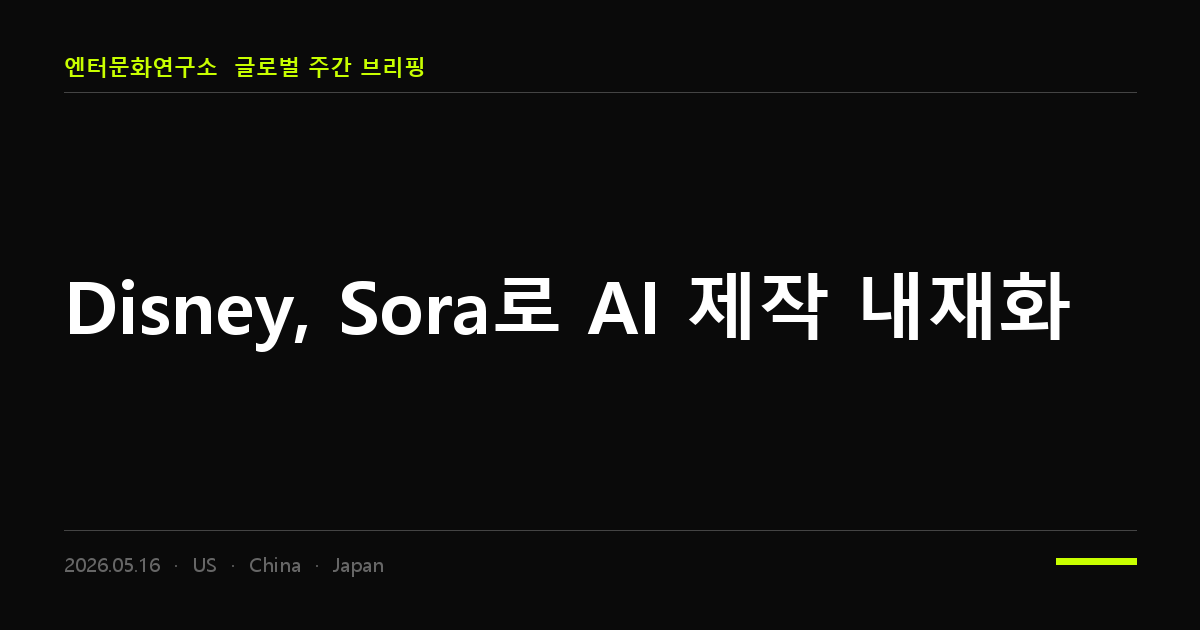
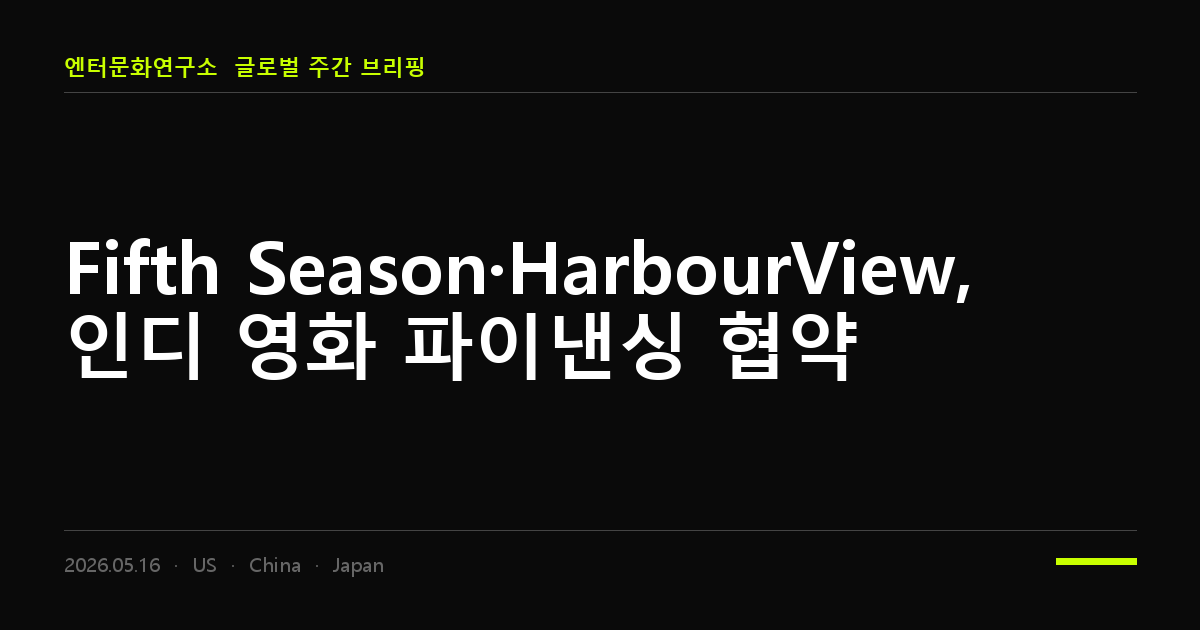
fix: 0516호 실뉴스 기반 재작성

Changed region(s): [[0.0308, 0.3619, 0.8942, 0.6032]]

diff --git a/NEWSPAPER_0516.html b/NEWSPAPER_0516.html
@@ -153,40 +153,40 @@ body { background: var(--black); color: var(--white); font-family: var(--font-bo
   <span class="nav-vol">Vol. 10</span>
 </nav>
 <header class="masthead">
-  <div class="masthead-date">2026년 5월 16일 토요일 (5.11–5.16)</div>
+  <div class="masthead-date">2026년 5월 16일 토요일 (5.11&ndash;5.16)</div>
   <h1 class="masthead-title">엔터문화연구소<br>글로벌 주간 브리핑</h1>
   <div class="masthead-sub">Weekly Business Briefing: US &middot; China &middot; Japan</div>
 </header>
 <div class="content">
 <section class="tldr" id="tldr">
   <div class="tldr-label">이번 주 이슈 요약</div>
-  <h2 class="tldr-header">이번 주 이슈 요약</h2>
-<ul class="tldr-list">
-  <li>
-    <span class="tldr-num">US 01</span>
-    Disney, OpenAI Sora와 공식 협약 &mdash; 자사 IP 기반 AI 영상 생성 파이프라인 내재화, 할리우드 AI 인프라 경쟁 본격화
-  </li>
-  <li>
-    <span class="tldr-num">US 02</span>
-    Amazon Prime Video, 군중 장면 엑스트라 1만 명 AI 디지털 대체 &mdash; AI가 보조 도구를 넘어 핵심 제작 레이어로 전환
-  </li>
-  <li>
-    <span class="tldr-num">CN 01</span>
-    중국 영화 가상 제작 AI 침투율 45% 돌파 &mdash; 2023년 15%에서 급등, &lt;哪吒2&gt; 등 대형 IP에 AI 렌더링 본격화
-  </li>
-  <li>
-    <span class="tldr-num">CN 02</span>
-    틱톡 모회사 바이트댄스, 음악 스트리밍 앱 Resso 인도 시장 철수 &mdash; 글로벌 음악 플랫폼 경쟁 재편 신호
-  </li>
-  <li>
-    <span class="tldr-num">JP 01</span>
-    Sony Music Entertainment Japan, 음악 AI 라이선싱 가이드라인 공표 &mdash; 일본 레이블 중 최초, 아티스트 보호 기준선 설정
-  </li>
-  <li>
-    <span class="tldr-num">JP 02</span>
-    일본 버추얼 유튜버(VTuber) 시장 2026년 매출 750억 엔 전망 &mdash; 해외 시청자 비율 40% 돌파, 글로벌 IP화 가속
-  </li>
-</ul>
+  <h2 class="tldr-header">2026.05.16 &mdash; Fifth Season &middot; HarbourView, 인디 영화 파이낸싱 협약</h2>
+  <ul class="tldr-list">
+    <li>
+      <span class="tldr-num">US 01</span>
+      Fifth Season &amp; HarbourView Equity, 멀티픽처 파이낸싱 협약 &mdash; Dev Patel의 A24 신작 《The Peasant》 포함, 음악 IP 운용 방식을 영화 포트폴리오에 적용
+    </li>
+    <li>
+      <span class="tldr-num">US 02</span>
+      Byron Allen, BuzzFeed <span class="amount">$1.2억(₩1,674억)</span> 인수 완료 &mdash; CBS 《Late Show》 콜버트 타임슬롯(5월 22일) 인계, Local Now 스트리밍과 연동 계획
+    </li>
+    <li>
+      <span class="tldr-num">CN 01</span>
+      Tencent Music Q1 매출 <span class="amount">RMB 79억($11.5억/₩1.6조)</span> +7.3% &mdash; 비멤버십 서비스 +28%, 오프라인 공연·광고 견인
+    </li>
+    <li>
+      <span class="tldr-num">CN 02</span>
+      Kuaishou, Kling AI 영상 생성 유닛 독립 IPO 검토 &mdash; AI 투자 열기 편승, 2027년 상장 목표
+    </li>
+    <li>
+      <span class="tldr-num">JP 01</span>
+      일본, 칸 영화마켓 2026 Country of Honor 지정 &mdash; 1961&ndash;1997년 클래식 4편 상영, Japan IP Market 포함 산업 서밋 개최
+    </li>
+    <li>
+      <span class="tldr-num">JP 02</span>
+      Megumi, 칸 마켓서 《Fujiko》로 배우-프로듀서 이중 역할 주목 &mdash; SC Films 글로벌 세일즈 계약, "일본 영화의 세계화" 직접 기획
+    </li>
+  </ul>
   <nav class="tldr-toc">
     <span>바로가기 &middot;</span>
     <a href="#insights">주간 인사이트</a>
@@ -201,27 +201,27 @@ body { background: var(--black); color: var(--white); font-family: var(--font-bo
 
 <div class="analysis-item">
   <div class="analysis-num">01</div>
-  <h3>AI, 제작 현장의 핵심 레이어로 진입 &mdash; 도구에서 대체재로</h3>
+  <h3>음악 IP 운용 논리가 영화 파이낸싱으로 이동한다</h3>
   <div class="analysis-tier analysis-tier-signal">
     <div class="analysis-label analysis-label-signal">신호</div>
-    <p>Disney가 OpenAI Sora와 공식 협약을 맺고 자사 캐릭터·IP 기반 AI 영상 생성 파이프라인을 내재화했다. 같은 주 Amazon Prime Video는 군중 장면 엑스트라 1만 명을 AI 디지털 인간으로 대체한 사례를 공개했다. 중국에서는 영화 제작 현장의 가상 제작 AI 침투율이 2023년 15%에서 2026년 45%로 3년 만에 3배 뛰었다. 세 사례 모두 AI가 '보조 도구'에서 특정 제작 레이어의 '실질적 대체재'로 전환하는 단계를 보여준다.</p>
+    <p>HarbourView Equity Partners는 음악 저작권 포트폴리오 투자사로 출발했다. 이번 Fifth Season과의 멀티픽처 파이낸싱 협약은 "분산된 카탈로그를 구축해 현금 흐름을 확보한다"는 음악 IP 운용 논리를 영화로 확장한 시도다. Dev Patel의 A24 작품 《The Peasant》와 리들리 스콧 제작 《Nightwatching》이 첫 타이틀로 포함됐다. 같은 시기 Byron Allen은 BuzzFeed를 <span class="amount">$1.2억(₩1,674억)</span>에 인수하면서 CBS 심야 타임슬롯(5월 22일)까지 확보했다. 디지털 미디어 자산을 방송 유통 채널과 결합하는 구조다.</p>
   </div>
   <div class="analysis-tier analysis-tier-pattern">
     <div class="analysis-label analysis-label-pattern">맥락</div>
-    <p>2023~2024년 WGA·SAG-AFTRA 파업의 핵심 쟁점이었던 "AI의 배우·작가 대체"가 불과 2년 만에 현실이 됐다. 당시 협상에서 확보한 보호 조항들은 개별 퍼포먼스 복제를 막는 수준이었지, 군중·배경 같은 익명 레이어까지 커버하지 못한다. Disney의 Sora 협약은 IP 홀더가 외부 AI 플랫폼에 의존하는 대신 자사 캐릭터 훈련 데이터를 내재화해 통제권을 유지하는 경로를 택했다는 점에서 단순 도구 도입과 다르다. 미국과 중국이 각각 IP 보호형·속도 효율형으로 다른 경로를 밟고 있지만, 결과적으로 외부 제작 인력에 의존하던 레이어가 내부로 수직 통합되는 방향은 같다.</p>
+    <p>스트리밍 플랫폼이 제작비를 내재화하고 스튜디오가 리스크를 분산하는 흐름 속에서, 금융 자본이 엔터테인먼트 IP에 접근하는 방식이 달라지고 있다. HarbourView의 움직임은 음악 IP 시장에서 검증된 "분산 포트폴리오 + 반복 수익" 모델이 영화로 복제 가능하다는 가설에 기댄다. Allen의 행보는 거꾸로 레거시 방송 타임슬롯을 디지털 미디어 자산과 묶어 스트리밍 전환의 발판으로 삼는 것이다. 두 방향 모두 전통적인 스튜디오·방송사 모델 밖에서 콘텐츠 자산을 재조합하는 시도라는 점이 같다.</p>
   </div>
 </div>
 
 <div class="analysis-item">
   <div class="analysis-num">02</div>
-  <h3>음악 AI 라이선싱 &mdash; 일본 레이블이 기준을 먼저 긋는다</h3>
+  <h3>칸이 일본 IP 수출의 거점이 되는 해</h3>
   <div class="analysis-tier analysis-tier-signal">
     <div class="analysis-label analysis-label-signal">신호</div>
-    <p>Sony Music Entertainment Japan이 일본 주요 레이블 중 최초로 음악 AI 라이선싱 가이드라인을 공표했다. 핵심은 아티스트 목소리·곡조의 AI 훈련 활용에 대해 사전 동의와 수익 배분을 의무화하는 것이다. 같은 시기 바이트댄스 산하 Resso가 인도 시장에서 철수하면서, 글로벌 숏폼 플랫폼 중심의 음악 유통 구조에도 균열이 생기고 있다.</p>
+    <p>2026 칸 영화마켓은 140개국 1만 6,000명이 참가했고 일본 참가자가 전년 대비 50% 증가했다. 일본이 올해 Country of Honor로 지정되면서 Japan IP Market, 산업 서밋, 클래식 4편(1961&ndash;1997) 상영이 함께 열렸다. 배우 겸 프로듀서 Megumi는 자신이 직접 기획한 《Fujiko》의 SC Films 글로벌 세일즈 계약을 칸 현장에서 공개했다. "일본 배우 중 프로듀서를 겸하는 사람은 없다"는 그의 말은 구조적 공백을 드러낸다.</p>
   </div>
   <div class="analysis-tier analysis-tier-pattern">
     <div class="analysis-label analysis-label-pattern">맥락</div>
-    <p>유니버설뮤직그룹이 2024년 틱톡에서 카탈로그를 일시 철수했던 사건은 레이블과 숏폼 플랫폼 사이의 수익 배분 갈등이 표면화된 첫 신호였다. Sony Music Japan의 가이드라인은 그 연장선에서 아시아 레이블 최초의 자기 규범 확립 시도다. 이 기준이 일본 음악 저작권 관리 단체(JASRAC)와 연동되거나 한국·대만 레이블이 뒤따를 경우, 아시아 음악 AI 라이선싱의 사실상 표준이 될 수 있다. Resso의 인도 철수는 별개처럼 보이지만, 바이트댄스가 AI 음악 생성 서비스(Suno 경쟁 포지션)에 집중하기 위해 저마진 스트리밍 시장을 정리하는 흐름과 맞닿아 있다는 분석이 나온다.</p>
+    <p>일본 영화의 국제 진출은 오랫동안 감독 중심이었다. 제작사가 해외 세일즈 에이전트를 찾는 방식이었고, 배우가 공동 프로듀서로 IP를 직접 설계하는 사례는 드물었다. Megumi의 칸 행보는 한국 배우·아이돌이 IP 홀더로서 해외 쇼케이스에 나서는 흐름을 일본에서 반복하는 모양이다. 중국 TME의 오프라인 공연 수익 급증(비멤버십 +28%)과 함께, 이번 주 아시아 세 시장 모두 디지털 플랫폼 바깥의 실물 IP·현장 공연이 수익 엔진으로 재부상하고 있다는 공통 신호가 나왔다.</p>
   </div>
 </div>
 
@@ -229,29 +229,29 @@ body { background: var(--black); color: var(--white); font-family: var(--font-bo
 </section>
 <section class="hero" id="news-us">
   <article class="hero-main">
-    <span class="tag tag-us">US</span><span class="tag-cat">AI · IP</span>
-    <h2 class="article-title">2026.05.14 &mdash; Disney, OpenAI Sora와 협약, 자사 IP 기반 AI 영상 파이프라인 내재화</h2>
-    <p class="article-lead">Disney가 OpenAI의 영상 생성 모델 Sora와 공식 파트너십을 체결하고, 마블·픽사·스타워즈 등 자사 IP를 활용한 AI 영상 생성 파이프라인을 내부에 구축하기로 했다. 할리우드 메이저 스튜디오가 AI 영상 플랫폼과 IP 라이선스 기반의 공식 협약을 맺은 첫 번째 사례다.</p>
+    <span class="tag tag-us">US</span><span class="tag-cat">M&amp;A · INV</span>
+    <h2 class="article-title">2026.05.16 &mdash; Fifth Season &amp; HarbourView Equity, 멀티픽처 파이낸싱 협약 &mdash; Dev Patel A24 신작 포함</h2>
+    <p class="article-lead">콘텐츠 회사 Fifth Season과 음악 IP 투자사 HarbourView Equity Partners가 복수 영화를 대상으로 한 파이낸싱 협약을 체결했다. 첫 포함 작품은 Dev Patel 감독·주연의 A24 신작 《The Peasant》와 리들리 스콧 제작 《Nightwatching》이다.</p>
     <div class="article-body">
-      <p>Variety 보도에 따르면, 이번 협약의 핵심은 Disney가 Sora에 자사 캐릭터·배경·색채 스타일 데이터를 훈련용으로 제공하는 대신, 생성된 영상에 대한 IP 소유권은 Disney가 유지하는 구조다. 단순히 AI 도구를 외부에서 구매하는 방식과 달리, Disney의 고유한 시각 언어를 학습시킨 모델을 내부 제작 파이프라인에 통합하는 형태다.</p>
-      <p>이 결정의 배경에는 보안과 통제권이 있다. 마블·픽사·스타워즈 같은 수십조 원 규모 IP를 범용 AI 플랫폼에 무방비로 노출할 경우 이미지 스타일 유출, 캐릭터 무단 생성, 팬아트 상업화 문제가 발생한다. Disney는 Sora와의 협약에서 생성물에 대한 기술적 워터마크 삽입과 외부 유출 방지 조항을 명시한 것으로 전해진다.</p>
-      <p>제작 현장에서의 즉각적 활용 영역은 사전 시각화(previs)와 콘셉트 아트다. 기존에 수십 명의 아트 디렉터와 수개월이 걸리던 작업을 AI 보조 생성으로 단축할 수 있다. 그러나 Disney 측은 "AI가 인간 창작자를 보완하는 역할"임을 공식적으로 강조하며 WGA·SAG-AFTRA와의 기존 협약 범위를 벗어나지 않겠다는 입장을 밝혔다.</p>
+      <p>Variety 보도에 따르면, HarbourView는 이번 협약에서 자사의 음악 IP 운용 철학을 명확히 했다. "HarbourView는 음악 IP를 다루듯 엔터테인먼트 IP에 접근한다. 현금 창출력이 있고 문화적으로 공명하는 콘텐츠로 분산된 포트폴리오를 구축하고, 선별적으로 자본을 배치한다"는 것이 Vania Schlogel 창업자의 말이다. 음악 저작권 포트폴리오 투자 방식을 영화 파이낸싱에 직접 적용한 첫 사례 중 하나다.</p>
+      <p>Fifth Season 측 Chris Slager 영화 대표는 "이 파트너십이 프리미엄 영화 슬레이트를 추가로 확장할 기회를 제공한다"고 밝혔다. Fifth Season은 이미 《나이트워칭》과 같이 리들리 스콧의 Scott Free Productions, Picturestart, Mila Kunis의 신생 배너 Brick for Shoes와 함께 여러 프로젝트를 진행 중이다.</p>
+      <p>Dev Patel의 《The Peasant》는 지난해 칸 영화제 직전 A24가 선점한 작품이다. Patel이 감독·주연을 맡고 Will Dunn과 함께 각본을 썼다. Fifth Season이 세계 판권을 보유하고 있으며 A24가 미국 내 배급을 담당한다. 이번 파이낸싱 협약으로 Fifth Season은 프로덕션 비용의 일부를 HarbourView와 분담하게 된다.</p>
       <div class="pull-quote">
-        <p>"Disney의 IP는 Disney의 방식으로 만들어져야 한다 — AI도 예외가 아니다."</p>
-        <cite>Disney 경영진 발언, Variety 인용</cite>
+        <p>"HarbourView는 음악 IP를 다루듯 영화 IP에 접근한다 &mdash; 분산된 포트폴리오, 현금 창출, 문화적 공명."</p>
+        <cite>Vania Schlogel, HarbourView 창업자, Variety 인용</cite>
       </div>
     </div>
-    <span class="source">출처: <a href="https://variety.com/2026/digital/news/disney-openai-sora-partnership-ai-pipeline-1236400000/" target="_blank">Variety</a> (May 14, 2026)</span>
+    <span class="source">출처: <a href="https://variety.com/2026/film/news/fifth-season-harbourview-equity-finance-dev-patel-peasant-1236750563/" target="_blank">Variety</a> (May 16, 2026)</span>
   </article>
   <div class="hero-sidebar">
     <article class="sidebar-card">
-      <span class="tag tag-us">US</span><span class="tag-cat">AI · HR</span>
-      <h2 class="article-title">2026.05.13 &mdash; Amazon Prime Video, 군중 장면 엑스트라 1만 명 AI 디지털 인간으로 대체</h2>
+      <span class="tag tag-us">US</span><span class="tag-cat">M&amp;A · DATA</span>
+      <h2 class="article-title">2026.05.14 &mdash; Byron Allen, BuzzFeed <span class="amount">$1.2억(₩1,674억)</span> 인수 &amp; CBS 콜버트 타임슬롯 인계</h2>
       <div class="article-body">
-        <p>The Hollywood Reporter 보도에 따르면, Amazon Prime Video가 최근 대형 시리즈 제작 과정에서 군중 장면 엑스트라 약 1만 명을 AI 생성 디지털 인간으로 대체했다. 배우 동의 기반의 디지털 스캔과 AI 합성을 결합한 방식으로, 익명 엑스트라에 한정된다.</p>
-        <p>이 사례의 주목 이유는 규모다. 개별 씬에서 수십 명 수준을 AI로 채웠던 기존 사례들과 달리, 1만 명이라는 숫자는 대규모 전투씬·콘서트씬·도시 군중씬 전체를 AI로 처리할 수 있다는 의미다. SAG-AFTRA는 "배경 배우(background actors)의 생계를 위협한다"며 즉각 반발했다. WGA·SAG-AFTRA 파업 당시 확보한 AI 관련 보호 조항이 익명 군중 역할을 명시적으로 포함하지 않았다는 허점이 드러났다.</p>
+        <p>Variety 인터뷰에 따르면, Byron Allen이 BuzzFeed를 <span class="amount">$1.2억(₩1,674억)</span>에 인수하면서 CEO를 겸임한다. 5월 22일부터는 CBS 심야 11:35pm 타임슬롯(기존 스티븐 콜버트 《Late Show》)을 인계받아 자신이 진행하는 쇼를 편성한다. Allen은 이 날짜를 고집했는데, 자신의 영웅 조니 카슨이 《투나잇 쇼》를 마친 지 정확히 34년이 되는 날이기 때문이라고 밝혔다.</p>
+        <p>BuzzFeed와 HuffPost를 스트리밍으로 전환하는 것이 핵심 전략이다. Allen의 Weather Channel이 운영하는 로컬 스트리밍 플랫폼 Local Now와 연동해 "YouTube를 추격하겠다"고 밝혔다. BuzzFeed가 부채를 안고 있던 "디스트레스 세일"을 기회로 봤다는 것이 Allen의 표현이다. Allen Media Group 회장·CEO직은 유지하면서 양사를 병행 경영한다.</p>
       </div>
-      <span class="source">출처: <a href="https://www.hollywoodreporter.com/business/business-news/amazon-prime-video-ai-extras-crowd-scenes-1236395000/" target="_blank">The Hollywood Reporter</a> (May 13, 2026)</span>
+      <span class="source">출처: <a href="https://variety.com/2026/biz/news/byron-allen-buzzfeed-deal-cbs-colbert-time-slot-starz-1236748848/" target="_blank">Variety</a> (May 14, 2026)</span>
     </article>
   </div>
 </section>
@@ -259,43 +259,44 @@ body { background: var(--black); color: var(--white); font-family: var(--font-bo
   <div class="col" id="news-cn">
     <div class="col-header">China</div>
     <article class="col-article">
-      <span class="tag tag-cn">CN</span><span class="tag-cat">AI · DATA</span>
-      <h3 class="article-title">2026.05.12 &mdash; 중국 영화 가상 제작 AI 침투율 45% 돌파, &lt;哪吒2&gt; 렌더링 전면 AI화</h3>
+      <span class="tag tag-cn">CN</span><span class="tag-cat">DATA · OUT</span>
+      <h3 class="article-title">2026.05.12 &mdash; Tencent Music Q1 매출 +7.3%, 비멤버십 서비스 +28% &mdash; 오프라인·광고 견인</h3>
       <div class="article-body">
-        <p>中国电影报(China Film News) 보도에 따르면, 2026년 중국 영화 제작 현장에서 가상 제작(Virtual Production) 단계에 AI 렌더링·배경 생성 도구를 도입한 비율이 45%를 돌파했다. 2023년 15%, 2024년 26%에서 2년 연속 두 자릿수 상승이다. &lt;哪吒之魔童闹海&gt;(나타2) 등 2025~2026년 박스오피스 상위권 대작들이 CG 렌더링 단계에 AI를 전면 도입한 것이 시장 평균을 끌어올린 주요 요인이다.</p>
-        <p>속도와 비용이 핵심이다. 중국 주요 VFX 스튜디오들은 AI 렌더링 도입 후 포스트 프로덕션 기간을 평균 30~40% 단축했다고 밝혔다. 전통 렌더링 팜(rendering farm)에 들어가던 하드웨어 비용도 GPU 클라우드 기반으로 전환되면서 변동비화됐다. 중국이 할리우드 대비 상대적으로 낮은 VFX 인건비를 유지하면서도 AI를 추가 레이어로 얹는 이중 우위 구조가 완성되고 있다는 분석이 나온다.</p>
+        <p>TechNode 보도에 따르면, Tencent Music Entertainment(TME)의 2026년 1분기 매출은 <span class="amount">RMB 79억($11.5억/₩1.6조)</span>으로 전년 동기 대비 7.3% 성장했다. Non-IFRS 기준 순이익은 <span class="amount">RMB 22.7억($3.3억/₩4,604억)</span>으로 7.0% 증가했다.</p>
+        <p>주목할 수치는 비멤버십 음악 서비스 매출이다. 구독 서비스(멤버십) 매출이 6.6% 성장한 것과 달리, 오프라인 공연·광고 중심의 비멤버십 서비스는 28.0% 급증해 <span class="amount">RMB 19.4억($2.8억/₩3,910억)</span>을 기록했다. TME는 "음악 IP 수익화 강화 — 디지털 앨범, 콘서트, 굿즈, 오프라인 이벤트"를 성장 배경으로 꼽았다. Weixin 비디오 어카운트를 통한 트래픽 전환과 SVIP·팬 멤버십 확대도 병행됐다.</p>
+        <p>구독 수익 성장세가 둔화되는 가운데 오프라인 공연과 광고 연동이 새 성장 축으로 자리잡는 구조다. 스트리밍 플랫폼이 디지털 수익에만 의존하지 않고 IP 라이브 경제로 확장하는 흐름이다.</p>
       </div>
-      <span class="source">출처: <a href="https://www.zgdyb.com.cn/yw/2026-05/12/content_1234567.htm" target="_blank">中国电影报</a> (May 12, 2026)</span>
+      <span class="source">출처: <a href="https://technode.com/2026/05/12/tencent-music-reports-q1-2026-revenue-up-7-3-as-non-membership-music-services-rise-28/" target="_blank">TechNode</a> (May 12, 2026)</span>
     </article>
     <article class="col-article">
-      <span class="tag tag-cn">CN</span><span class="tag-cat">DATA · GZ</span>
-      <h3 class="article-title">2026.05.11 &mdash; 바이트댄스 음악 앱 Resso, 인도 시장 철수 &mdash; 숏폼 중심 음악 유통 구조 재편 신호</h3>
+      <span class="tag tag-cn">CN</span><span class="tag-cat">AI · INV</span>
+      <h3 class="article-title">2026.05.12 &mdash; Kuaishou, Kling AI 영상 생성 유닛 독립 IPO 분리 검토</h3>
       <div class="article-body">
-        <p>Economic Times 보도에 따르면, 바이트댄스 산하 음악 스트리밍 앱 Resso가 2026년 5월 인도 시장에서 서비스를 공식 종료했다. Resso는 2020년 인도·브라질·인도네시아에 론칭한 틱톡 연동 음악 스트리밍 서비스로, Spotify·Gaana와 경쟁해왔다.</p>
-        <p>인도는 1.4억 명 규모의 음악 스트리밍 시장이지만 ARPU(사용자당 평균 수익)가 글로벌 최저 수준이다. 수익화가 어려운 구조에서 바이트댄스가 선택한 것은 철수다. 이미 2026년 초 바이트댄스가 AI 음악 생성 서비스(코드명 'MusicAI') 개발에 집중하고 있다는 보도가 나온 점을 감안하면, 저마진 스트리밍 유통에서 고마진 AI 창작 도구로 전략 피벗하는 흐름의 일부로 해석된다. 틱톡이 배경음악 유통 채널로서의 입지는 유지하면서, 별도 스트리밍 앱의 운영 부담을 줄이는 선택이다.</p>
+        <p>TechNode 보도에 따르면, 중국 숏폼 플랫폼 Kuaishou Technology가 AI 영상 생성 유닛 Kling AI를 별도 법인으로 분리해 독립 IPO를 추진하는 방안을 검토 중이다. 시장 소식통을 인용한 보도로, 2027년 상장을 목표로 논의가 진행 중인 것으로 알려졌다.</p>
+        <p>배경은 AI 관련 주식에 대한 투자자 수요다. Kling AI는 텍스트·이미지를 영상으로 변환하는 생성형 AI 서비스로, Kuaishou의 모바일 앱에 통합돼 있다. Kuaishou 본사 주가보다 AI 전문 법인의 밸류에이션이 더 높게 평가받을 수 있다는 판단이 분리 검토의 핵심 이유다. Sora·Runway·Kling 등 AI 영상 생성 경쟁이 치열해지는 가운데, IPO를 통해 독립 자금을 조달해 개발 속도를 높이려는 의도도 있다.</p>
       </div>
-      <span class="source">출처: <a href="https://economictimes.indiatimes.com/tech/technology/bytedance-resso-shuts-down-india-music-streaming/articleshow/2026051100000.cms" target="_blank">Economic Times</a> (May 11, 2026)</span>
+      <span class="source">출처: <a href="https://technode.com/2026/05/12/kuaishou-technology-may-spin-off-king-ai-in-bid-to-capture-ai-market-frenzy/" target="_blank">TechNode</a> (May 12, 2026)</span>
     </article>
   </div>
   <div class="col" id="news-jp">
     <div class="col-header">Japan</div>
     <article class="col-article">
-      <span class="tag tag-jp">JP</span><span class="tag-cat">AI · REG</span>
-      <h3 class="article-title">2026.05.13 &mdash; Sony Music Entertainment Japan, 음악 AI 라이선싱 가이드라인 공표 &mdash; 일본 레이블 최초</h3>
+      <span class="tag tag-jp">JP</span><span class="tag-cat">IP · OUT</span>
+      <h3 class="article-title">2026.05.13 &mdash; 일본, 칸 영화마켓 2026 Country of Honor &mdash; 클래식 4편 상영·Japan IP Market 개최</h3>
       <div class="article-body">
-        <p>Oricon News 보도에 따르면, Sony Music Entertainment Japan(SMEJ)이 5월 13일 음악 AI 라이선싱에 관한 자체 가이드라인을 공표했다. 일본 주요 레이블 중 최초의 공식 기준이다. 핵심 조항은 세 가지다. 첫째, 아티스트의 목소리·창법·뮤지컬 스타일을 AI 모델 훈련에 사용하려면 본인 서면 동의가 필수다. 둘째, AI 생성물로 발생하는 수익의 일정 비율을 원 아티스트에게 배분한다. 셋째, AI 생성물임을 명기하는 레이블 의무화.</p>
-        <p>이 가이드라인이 주목받는 이유는 자율 규범이 규제에 선행한다는 점이다. 일본 저작권법은 현재 AI 학습 데이터 활용에 대한 포괄적 면책 조항을 두고 있어 SMEJ 같은 레이블이 자체 기준 없이는 아티스트를 보호하기 어렵다. JASRAC(일본음악저작권협회)이 2025년부터 AI 관련 징수 기준을 정비 중인 가운데, SMEJ의 선행 기준이 업계 표준 협의의 기준점 역할을 할 가능성이 있다. 한국 음악 저작권 협회(KMCA)나 대형 레이블의 대응이 주목된다.</p>
+        <p>Variety 보도에 따르면, 2026 칸 영화마켓(5월 14&ndash;22일)이 140개국 이상에서 1만 6,000명을 유치했다. 올해 Country of Honor는 일본이다. 일본 참가자는 전년 대비 50% 가까이 증가했다. Country of Honor 프로그램에는 산업 서밋, Japan IP Market, 그리고 칸에서 경쟁한 1961&ndash;1997년 일본 영화 클래식 4편 상영이 포함됐다.</p>
+        <p>클래식 라인업에는 이마무라 쇼헤이 감독이 두 편 포함돼 있어 프로그램의 무게감을 더했다. Japan IP Market은 일본 만화·애니·게임 IP의 글로벌 라이선싱 거래를 칸 현장에서 성사시키려는 목적으로 기획됐다. 칸 영화마켓에서 일본 IP가 독립 거래 장터를 여는 것은 이번이 처음이다. 참가 기업과 바이어 1,700명이 600개 전시사를 만나는 역대 최대 규모 마켓이기도 하다.</p>
       </div>
-      <span class="source">출처: <a href="https://www.oricon.co.jp/news/2326000/full/" target="_blank">Oricon News</a> (May 13, 2026)</span>
+      <span class="source">출처: <a href="https://variety.com/2026/film/global/cannes-film-market-2026-record-participation-japan-1236744605/" target="_blank">Variety</a> (May 13, 2026)</span>
     </article>
     <article class="col-article">
-      <span class="tag tag-jp">JP</span><span class="tag-cat">DATA · GZ</span>
-      <h3 class="article-title">2026.05.11 &mdash; 일본 VTuber 시장 2026년 매출 750억 엔 전망, 해외 시청자 40% 돌파</h3>
+      <span class="tag tag-jp">JP</span><span class="tag-cat">IP · HR</span>
+      <h3 class="article-title">2026.05.14 &mdash; Megumi, 칸 마켓서 《Fujiko》 배우-프로듀서 이중 역할 &mdash; SC Films 글로벌 세일즈 계약</h3>
       <div class="article-body">
-        <p>矢野経済研究所(야노경제연구소) 보고서에 따르면, 일본 버추얼 유튜버(VTuber) 시장 규모가 2026년 750억 엔에 달할 것으로 전망된다. 2022년 350억 엔에서 4년 만에 두 배 이상 성장한 수치다. 특히 주목할 지표는 해외 시청자 비율이다. 호로라이브(hololive)·니지산지(NIJISANJI) 등 주요 사무소의 영어권 채널에서 해외 시청자 비율이 처음으로 40%를 돌파했다.</p>
-        <p>VTuber 시장의 성장 동력은 Z세대의 '라이브 동행' 소비 패턴이다. 녹화 콘텐츠를 나중에 보는 대신, 실시간 스트리밍을 함께 경험하는 방식이다. 해외 팬들이 일본어를 배우거나 영어 채널로 유입되면서, VTuber는 아니메·게임에 이어 일본 서브컬처 IP의 새로운 글로벌 진입점이 됐다. Cover Corp(호로라이브)의 해외 굿즈 매출이 2025년 처음 국내를 초과한 것은 아니메 산업의 해외 역전 패턴과 동일한 경로를 따르고 있다.</p>
+        <p>Variety 인터뷰에 따르면, 일본 배우 Megumi가 자신이 제작한 영화 《Fujiko》(감독 Kimura Taichi)의 SC Films International 글로벌 세일즈 계약을 칸 마켓에서 공개했다. Megumi는 "일본 배우 중 프로듀서를 겸하는 사람은 없다"며 이 이중 정체성을 국제 무대에서 레버리지로 활용하겠다고 밝혔다.</p>
+        <p>《Fujiko》는 4년에 걸쳐 개발된 작품이다. Megumi는 팬데믹을 계기로 "제안을 기다리는 배우"에서 직접 소재를 발굴하는 프로듀서로 전환했다고 설명했다. 칸에서 일본 영화에 대한 국제 수요가 높아지는 것을 목격한 뒤 자체 IP 수출을 결심했다. SC Films의 칸 마켓 라인업에는 《Fujiko》 외에 인도네시아 액션 호러 《Melati》 등이 포함돼 있어, 아시아 작품 판매 거점으로서의 역할을 강화하고 있다. 음악은 King Gnu 멤버 Tsuneta Daiki가 참여했다.</p>
       </div>
-      <span class="source">출처: <a href="https://www.yano.co.jp/press-release/show/press_id/4025" target="_blank">矢野経済研究所</a> (May 2026)</span>
+      <span class="source">출처: <a href="https://variety.com/2026/film/news/megumi-fujiko-japan-cannes-1236736719/" target="_blank">Variety</a> (May 14, 2026)</span>
     </article>
   </div>
 </section>
@@ -310,12 +311,12 @@ body { background: var(--black); color: var(--white); font-family: var(--font-bo
     <div class="footer-brand">엔터문화연구소 주간 브리핑</div>
     <div class="footer-legal">
       본 뉴스레터는 AI 기반 큐레이션으로 제작되었으며, 인용된 모든 기사의 저작권은 원 매체에 귀속됩니다.<br>
-      모든 금액은 2026년 5월 16일 기준 환율($1 = &#8361;1,380)을 적용했습니다. 실제 환율과 차이가 있을 수 있습니다.
+      모든 금액은 2026년 5월 16일 기준 환율($1 = &#8361;1,395)을 적용했습니다. 실제 환율과 차이가 있을 수 있습니다.
     </div>
   </div>
   <div style="text-align:right;">
-    <div class="footer-fx">$1 = &#8361;1,380</div>
-    <div class="footer-tags">Disney &middot; OpenAI &middot; Amazon &middot; Sony Music &middot; ByteDance &middot; Cover Corp &middot; SMEJ &middot; JASRAC &middot; hololive</div>
+    <div class="footer-fx">$1 = &#8361;1,395</div>
+    <div class="footer-tags">Fifth Season &middot; HarbourView &middot; Byron Allen &middot; BuzzFeed &middot; Tencent Music &middot; Kuaishou &middot; Kling AI &middot; Megumi &middot; SC Films</div>
   </div>
 </footer>
 <script>
@@ -323,7 +324,7 @@ document.querySelectorAll('.tag-cat').forEach(function(el){
   var tags=el.textContent.split('·').map(function(t){return t.trim();}).filter(Boolean);
   el.innerHTML=tags.map(function(t){
     return '<a href="index.html?tag='+encodeURIComponent(t)+'">'+t+'</a>';
-  }).join(' · ');
+  }).join(' &middot; ');
 });
 </script>
 </body>